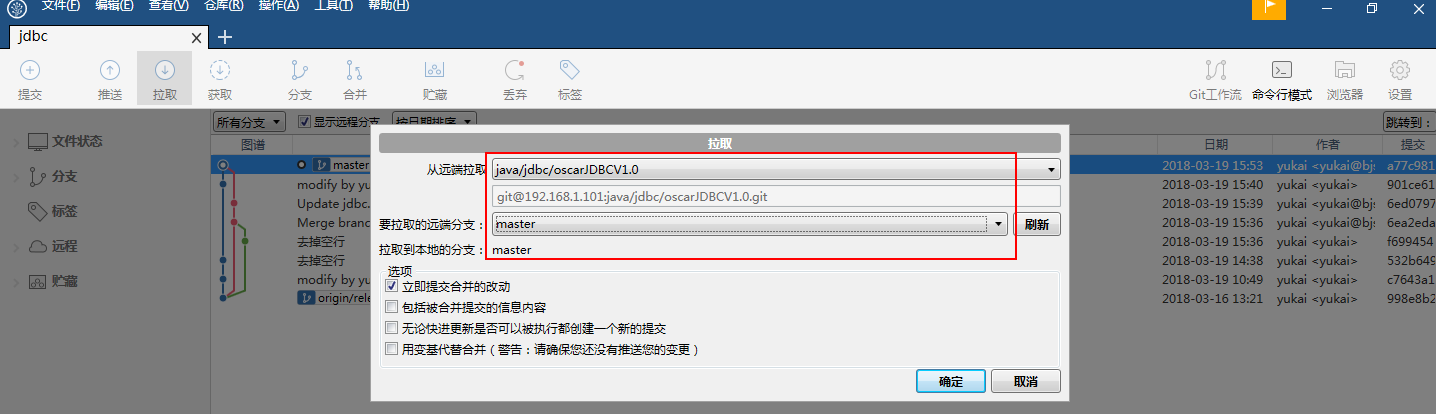
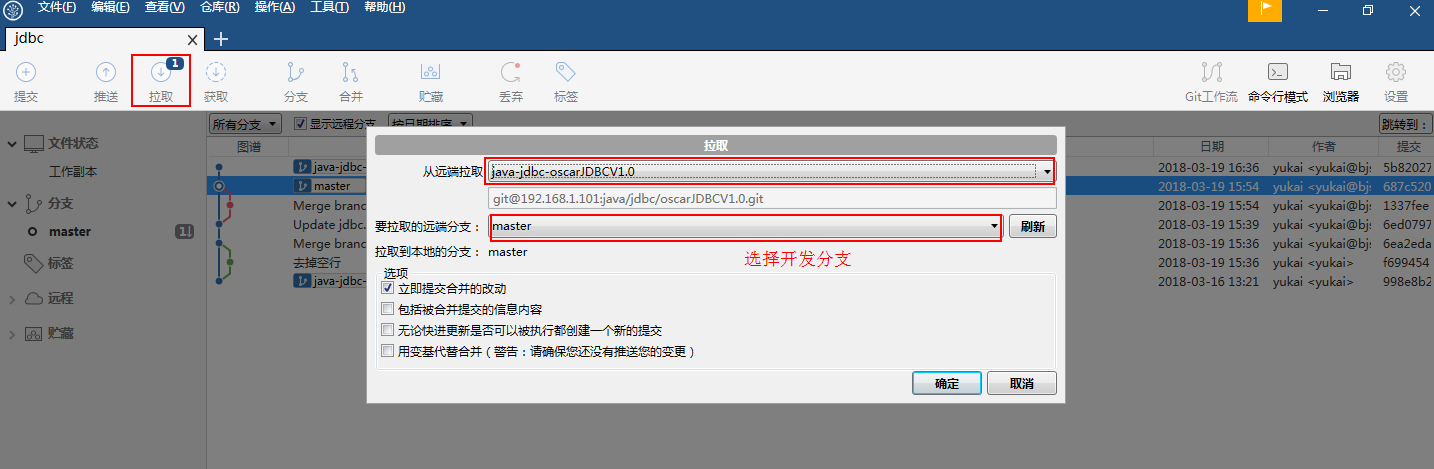
修改提交MR，fork模式为创建临时分支模式。更新相关章节，替换相应截图。 其他 章节之前的内容撰写完毕

diff --git a/review/update.md b/review/update.md
@@ -2,33 +2,41 @@
 
 合并请求[^1]（Merge Request）是在 GitLab 上进行代码协作的基础。合并请求，即：请求将一个分支（源分支）合并到另一个分支（目的分支）。
 
-在[工作流](/workflow/workflow.md)章节中，已经列举了日常修改代码的流程。可知，源分支即自己命名空间下群组内项目的 fork 版本中的分支；目的分支即群组内项目中的分支。
+在[工作流](/workflow/workflow.md)章节中，已经列举了日常修改代码的流程。可知，源分支即从目的分支检出的新分支；目的分支即项目的开发分支。
 
-每次发起 Merge Request 时，就是从 fork 版本的分支合并到群组内项目的分支上。
+每次发起 Merge Request 时，就是从**创建的临时分支**合并到**项目的开发分支**上。
 
 在提交 Merge Request 之前，有可能有其他的组员已经合并了代码到目的分支上，而此时我们源分支的代码已经落后于目的分支，此时提交 Merge Request 就会引起[冲突](https://about.gitlab.com/2016/09/06/resolving-merge-conflicts-from-the-gitlab-ui/)。
 
 所以，在**修改本地代码之前**，我们应该先检查一下目的分支的代码是否有更新，若有更新，则同步到本地代码，这是一个好的习惯。
 
-## 配置远程仓库 URL
-
-想要追踪目的分支的代码，首先需要在 SourceTree 中配置远程仓库 URL。打开  SourceTree，点击`工具栏->仓库->仓库设置`：
-
-![](/assets/sourcetree-add-url.png)
-
-点击添加按钮：
-
-![](/assets/sourcetree-url-detail.png)
-
-配置好目的分支的URL，即群组内项目的仓库地址，并为该远程仓库起一个名字。
-
-点击确定完成添加。
+## 拉取更新
 
 点击工具栏 `拉取` 按钮，弹出对话框：
 
 ![](/assets/sourcetree-pull.png)
 
-选择远程仓库（群组内项目的仓库）和要拉取的分支（目的分支），点击`确定`
+选择远程仓库和要拉取的分支，点击`确定`。
+
+如果本地代码就是远程分支的祖先提交，那么远程分支的代码顺利更新到本地；如果已经手动更新了本地代码，再拉取远端代码，则会发生冲突，参考[解决冲突](/others/merge-conflict)。
+
+> **[info] 建议**
+>
+> 为了避免解决冲突的麻烦，建议本地的修改不要直接应用到本地开发分支上；只有在拉取远端开发分支的情况下本地开发分支上的代码才会发生变动。
+
+## 创建新分支
+
+修改代码需要在一个新的临时分支上进行。
+ 
+打开 SourceTree，点击工具栏 `分支` 按钮：
+
+![](/assets/sourcetree-check-branch.png)
+
+在弹出的对话框中填写新分支的名称（建议格式为 `fix_bugXXX_name`），如果勾选了 `检出新分支`，则点击 `创建分支` 按钮后自动检出到新分支。
+
+![](/assets/sourcetree-show-newbranch.png)
+
+可以看到，新分支已经创建完成并检出（加粗分支为检出分支）。
 
 [^1]: 类似于 Starteam review request，即提交代码评审.
 

diff --git a/review/local-modify.md b/review/local-modify.md
@@ -4,13 +4,13 @@
 
 ## 修改代码
 
-假定此时我们已经完成 [Fork 项目到自己的命名空间](/setup/fork.md)，同时[克隆代码到本地](/克隆)的工作，并且已经[配置好了.ignore文件](/others/ignore.md)。
+假定此时我们已经完成[克隆代码到本地](/setup/clone.md)的工作，并且已经[**更新了代码并检出到新分支上**](/review/update.md)。
 
 ### 修改并提交代码
 
 打开 SourceTree：
 
-![](/assets/sourcetree.png)
+![](/assets/sourcetree-show-workdir.png)
 
 这是我们本地的代码，当前的工作目录是“干净”的，没有进行任何修改。
 
@@ -30,21 +30,21 @@
 
 ### 推送代码到远程仓库
 
-确定代码修改完成，并经过测试后，点击 SourceTree 下方 `日志/历史` 按钮：
-
-![](/assets/sourcetree-push.png)
+确定代码修改完成，并经过测试后，点击 SourceTree 下方 `日志/历史` 按钮
 
 点击工具栏 `推送` 按钮，弹出对话框：
 
-![](/assets/sourcetree-push1.png)
+![](/assets/sourcetree-push.png)
+
+注意选择创建的临时分支进行推送，Gitlab 会自动自远程仓库创建同名的分支。
 
 点击 `推送` 按钮，将更改推送到远程仓库。
 
 ## 提交评审
 
-打开 Gitlab，进入到**自己命名空间**下的项目主页，点击左侧列表 `Merge Requests`，点击 `New merge request`：
+打开 Gitlab，进入项目主页，点击左侧列表 `Merge Requests`，点击 `New merge request`：
 
-![](/assets/gitlab-mr.png)
+![](/assets/gitlab-mr-create.png)
 
 选好源分支和目的分支后，点击 `Compare branches and continue`：
 

diff --git a/review/discuss.md b/review/discuss.md
@@ -6,13 +6,13 @@
 
 打开 Gitlab，进入项目主页，点击左侧 `Merge Requests`，可以看到所有的 Merge Request：
 
-![](/assets/gitlab-mr-show.png)
+![](/assets/gitlab-mr-all.png)
 
 可以根据 Merge Request 的状态进行过滤，或者直接进行搜索。点击 Merge Request 标题查看 Merge Request：
 
-![](/assets/gitlab-mr-diss.png)
+![](/assets/gitlab-mr-show.png)
 
-可以看到 Merge Request 的详细内容[^1]。在页面下方，`Changes` 标签页可以看到代码修改前后的变化。移动鼠标到代码行，点击行首的 评论图标 按钮，可以针对该行进行点评：
+可以看到 Merge Request 的详细内容[^1]。在页面下方，`Changes` 标签页可以看到代码修改前后的变化。移动鼠标到代码行，点击行首的 :speech_balloon: 按钮，可以针对该行进行点评：
 
 ![](/assets/gitlab-mr-diss-inline.png)
 

diff --git a/setup/create-project.md b/setup/create-project.md
@@ -2,7 +2,7 @@
 
 Gitlab 支持创建项目，这里的项目对应 Starteam 中的视图，用于存放对应工程的代码文件。
 
-项目成员可以将项目代码[克隆到本地](/setup/clone.md)，修改代码并[提交代码评审](/review/README.md)。
+项目成员可以将项目代码[克隆到本地](/setup/clone.md)，修改代码并[提交代码评审](/review/local-modify.md)。
 
 > **[danger] 注意**
 >
@@ -48,6 +48,10 @@ Gitlab 支持创建项目，这里的项目对应 Starteam 中的视图，用于
 ![](/assets/git-init.png)
 
 此时，项目已经被成功初始化成为 Git 项目。
+
+> **[warning] 注意**
+>
+> Git 项目初始化完毕，还应该[创建 .gitignore文件](/others/ignore.md)忽略那些不需要纳入版本管理的临时文件。
 
 ### 配置 SourceTree
 

diff --git a/workflow/workflow.md b/workflow/workflow.md
@@ -20,9 +20,11 @@ Git 作为一个源码管理系统，不可避免涉及到多人协作。
 
 1. 项目组长将 Master 分支和 Production 分支设置为保护分支。只允许 Master 合并到这两个分支，不允许任何人推送到这两个分支；
 
-2. 项目成员 fork 项目到自己的命名空间下，并将**自己命名空间下**的代码 clone 到本地；
+2. 项目成员将项目代码 clone 到本地或拉取最新代码；
 
-3. 针对需求或者 BUG，修改代码，推送到远程仓库（自己命名空间下）；
+3. **从开发分支**创建临时分支并检出到新分支；
+
+3. 针对需求或者 BUG，修改代码，推送新分支到远程仓库；
 
 4. 发起 [Merge Request](/review/local-modify.md)，请求合并代码到 Master 分支（或其他分支）；
 

diff --git a/SUMMARY.md b/SUMMARY.md
@@ -11,14 +11,13 @@
   * [\* 创建群组](setup/create-group.md)
   * [\* 创建项目](setup/create-project.md)
   * [\* 创建分支](setup/create-branch.md)
-  * [Fork项目](setup/fork.md)
   * [克隆项目](setup/clone.md)
 * [配置](config/README.md)
   * [\* 创建保护分支](config/protected-branch.md)
   * [\* 角色与权限](config/permission.md)
 * [工作流](workflow/workflow.md)
 * [代码评审](review/README.md)
-  * [更新本地代码](review/update.md)
+  * [更新代码并创建分支](review/update.md)
   * [修改代码并提交评审](review/local-modify.md)
   * [查看评审并评论](review/discuss.md)
   * [\* 合并代码](review/merge.md)

diff --git a/setup/clone.md b/setup/clone.md
@@ -2,15 +2,11 @@
 
 ## 复制远程仓库地址
 
-开发人员要对代码进行修改，首先要 [Fork 项目到自己的命名空间](/setup/fork.md)，然后将**自己命名空间下的项目**代码克隆到本地进行修改。
+开发人员要对代码进行修改，首先要将项目代码克隆到本地。
 
-打开 Gitlab，点击工具栏 `Projects`，点击 `Your projects`：
+打开 Gitlab，进入项目主页：
 
-![](/assets/show-fork.png)
-
-点击进入**自己命名空间下的项目**：
-
-![](/assets/clone.png)
+![](/assets/gitlab-cp-url.png)
 
 选择 SSH 协议，点击仓库地址右侧按钮，复制仓库地址。
 

diff --git a/config/protected-branch.md b/config/protected-branch.md
@@ -2,7 +2,7 @@
 
 为了禁止项目成员随意提交代码造成提交历史混乱，同时也为了防止有未评审的代码提交到项目仓库，可以设置保护分支达到这个目的。
 
-> **[warning] For danger**
+> **[warning] 注意**
 >
 > 保护分支由项目组长在项目创建完毕时进行配置。
 
@@ -26,6 +26,6 @@
 
 ![](/assets/protected-branch.png)
 
-> **[danger] For danger**
+> **[danger] 注意**
 >
 > 对于[开发分支和发布分支](/workflow/workflow.md)，必须设置`Allowed to merge` 和 `Allowed to push` 为 Masters。即项目组长才有权限合并代码到这两个分支。

diff --git a/setup/create-branch.md b/setup/create-branch.md
@@ -6,10 +6,6 @@
 
 对于一些不体现在主线的临时版本代码，也可以通过创建分支的方式储存这部分代码。
 
-> **[danger] 注意**
->
-> 严禁开发人员在 Gitlab 上随意创建分支！创建分支需要由项目组长或相关成员操作。
-
 打开 Gitlab web 界面，进入到项目主页：
 
 ![](/assets/new-branchs.png)

diff --git a/review/merge.md b/review/merge.md
@@ -6,7 +6,9 @@
 
 ![](/assets/gitlab-mr-merge.png)
 
-打开 Merge Request，点击 `Merge` 按钮即可合并代码到目标分支。
+打开 Merge Request，勾选 `Remove source branch`，该操作会将在 Gitlab 上创建的临时分支删除。
+
+点击 `Merge` 按钮即可合并代码到目标分支。
 
 ## 遇到合并冲突
 
